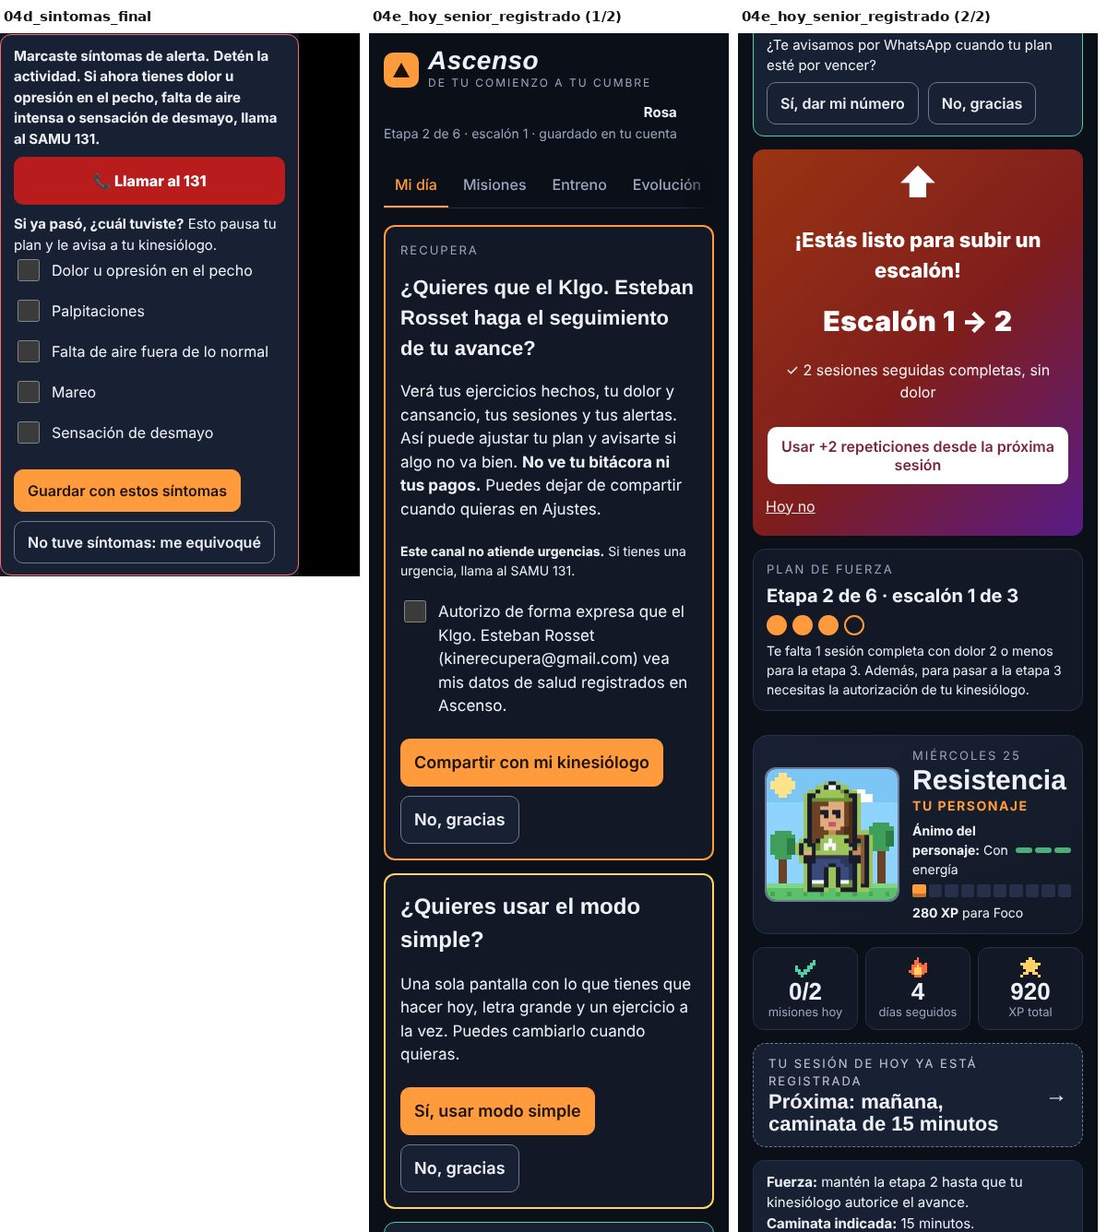
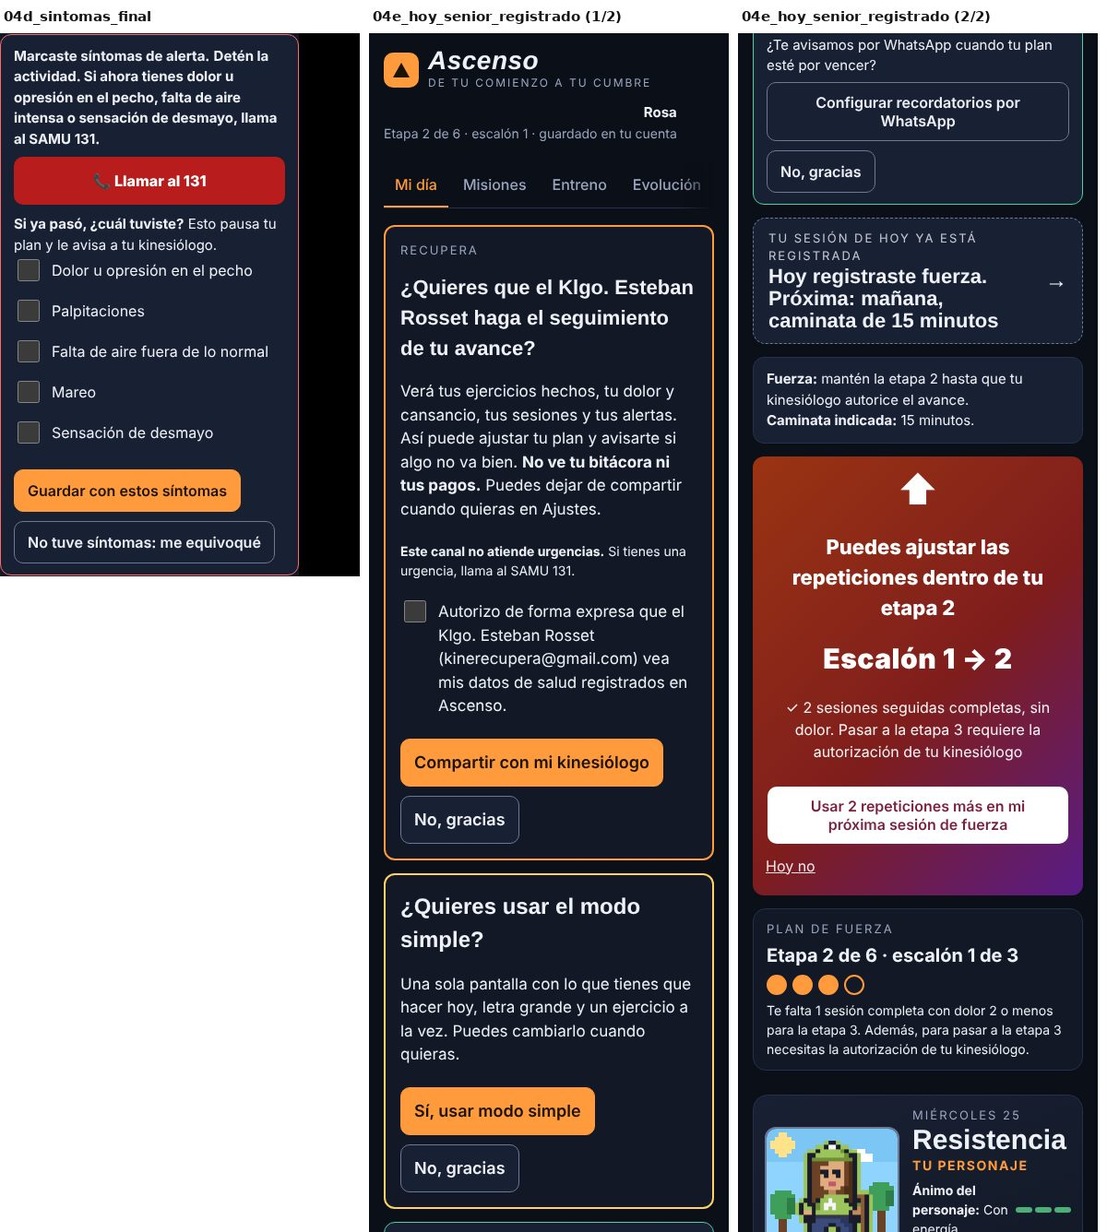
Copia de prueba v79: correcciones de la 2.ª auditoría (la app de los pacientes no cambia)
Claude-Session: https://claude.ai/code/session_01J9tU8kEPtqaroEiwXZirqq

Changed region(s): [[0.6783, 0.0614, 0.9867, 1.0]]

diff --git a/beta/index.html b/beta/index.html
@@ -2,7 +2,7 @@
 <html lang="es">
 <head><base href="/ascenso/"><meta name="robots" content="noindex,nofollow"><script>(function(){var P="beta::",S=Storage.prototype,g=S.getItem,t=S.setItem,r=S.removeItem;S.getItem=function(k){return g.call(this,P+k)};S.setItem=function(k,v){return t.call(this,P+k,v)};S.removeItem=function(k){return r.call(this,P+k)};window.__BETA=true;window.__BETA_OK=[]})();</script>
 <meta charset="utf-8">
-<meta http-equiv="Content-Security-Policy" content="script-src 'self' 'sha256-s/2Ct3tFYhvXDkHKQXgCxKZn0b7j8MYsCZJcokQtB40=' 'sha256-2qm+Nt5Uu7L4RKgV59o0kIRsnuY0dnKosS4yotFTYTM=' 'sha256-AFdyW6QBsN7g3o2Wol3DzaFtzZPYZuMmQ8KwB76Xs6I=' 'sha256-5m2u4pl+QQ/JE5w8ukPTJ/in6Wfsb5JmjLwGXVXoulQ=' 'sha256-x6Jjqo12cp5KPEwhwsD15s6v7TK37973w38eJjFjN10='; object-src 'none'; base-uri 'self'">
+<meta http-equiv="Content-Security-Policy" content="script-src 'self' 'sha256-s/2Ct3tFYhvXDkHKQXgCxKZn0b7j8MYsCZJcokQtB40=' 'sha256-Yg73y1MUci6KovatRJIbNWx8zc0LH+7KaVtxYIlEHQs=' 'sha256-AFdyW6QBsN7g3o2Wol3DzaFtzZPYZuMmQ8KwB76Xs6I=' 'sha256-5m2u4pl+QQ/JE5w8ukPTJ/in6Wfsb5JmjLwGXVXoulQ=' 'sha256-x6Jjqo12cp5KPEwhwsD15s6v7TK37973w38eJjFjN10='; object-src 'none'; base-uri 'self'">
 <meta name="viewport" content="width=device-width,initial-scale=1,viewport-fit=cover">
 <meta name="theme-color" content="#0b0f17">
 
@@ -428,6 +428,7 @@ function parqFlags(){return parqValid()?S.train.parq.map((v,i)=>v?i:-1).filter(i
 function trainReady(){const t=S.train;if(t.hold&&t.hold.kind==="dolor"){const hs=t.sessions.find(x=>x.id===t.hold.sid);if(hs&&!(hs.pain>=6)){if(!hs.paused)hs.paused="dolor";hs.autoLift=1;t.hold=null}}if(!S.onboard?.health)return"consent";if(!parqValid())return"parq";if(parqFlags().length&&!proClear("parq"))return"paused";if(t.hold)return"hold";if(!t.plan)return"plan";return"ok"}
 function strengthAt(stage){const t=S.train;return t.sessions.filter(s=>s.type==="fuerza"&&s.stage===stage&&(s.at||0)>=(t.stageAt||0))}
 function sessionToday(){return S.train.sessions.find(s=>s.date===today())}
+function todoDone(){const sd=sessionToday();return`<button class="todo soft" data-act="tab" data-k="entreno" id="todoDone"><span class="eyebrow">Tu sesión de hoy ya está registrada</span><b>Hoy registraste ${esc(sd.type)}. Próxima: ${nextTrainTxt()}</b><span class="go" aria-hidden="true">→</span></button>${capLines()}`}
 function nextTrainTxt(){const p=S.train.plan;if(!p)return"";const dw=(new Date().getDay()+1)%7;return DAYSETS[p.days].d.includes(dw)?"mañana, fuerza · etapa "+S.train.stage:"mañana, caminata de "+p.walk+" minutos"}
 function capLines(){if(!(S.train&&S.train.plan&&seniorCap()))return"";return`<div class="banner" id="capLines"><b>Fuerza:</b> mantén la etapa ${S.train.stage} hasta que tu kinesiólogo autorice el avance.<br><b>Caminata indicada:</b> ${S.train.plan.walk} minutos.</div>`}
 function walkUp(){const t=S.train;if(!t.plan||t.plan.walk>=30)return 0;const w=t.sessions.filter(s=>s.type==="caminata"&&(s.at||0)>=(t.walkAt||0)),days=[...new Set(w.map(s=>s.date))];return days.length>=NEED&&w.slice(0,NEED).every(s=>s.result==="completa"&&s.borg<=6&&s.pain<=2&&!s.alert)?t.plan.walk+5:0}
@@ -470,7 +471,7 @@ function renewCard(k,t,d){const money="$"+CFG.price.toLocaleString("es-CL");retu
 function memberBanner0(){if(M&&M.pro)return"";const st=memberState();if(st.active)return st.days<=5?renewCard("warn",st.days<=1?"Tu plan vence mañana":`Tu plan vence en ${st.days} días`,`Vence: ${fmtDT(st.exp)}<br>Si renuevas antes, los días se suman al final: no pierdes ninguno.`):"";
   if(st.status==="VENCIDO")return renewCard("bad","Tu plan venció",`Venció: ${fmtDT(st.exp)}<br>Tu progreso está guardado. Renueva para seguir registrando tus hábitos y tu entrenamiento.`);
   return`<div class="banner warn">${st.status==="SUSPENDIDO"?"Tu cuenta está suspendida.":"Activa tus "+CFG.trialDays+" días de prueba para registrar actividad."} <button class="link" data-act="tab" data-k="planes">Ver planes</button></div>`}
-function waAsk(){if(!CT||CT.wa_ok||(M&&M.pro)||(S.ui&&S.ui.waNo)||tab!=="dia")return"";const st=memberState();if(!st.active)return"";return`<div class="banner ok">¿Te avisamos por WhatsApp cuando tu plan esté por vencer? <div class="row" style="margin-top:6px"><button class="btn tap" data-act="tab" data-k="ajustes">Sí, dar mi número</button><button class="btn tap" data-act="waNo">No, gracias</button></div></div>`}
+function waAsk(){if(!CT||CT.wa_ok||(M&&M.pro)||(S.ui&&S.ui.waNo)||tab!=="dia")return"";const st=memberState();if(!st.active)return"";return`<div class="banner ok">¿Te avisamos por WhatsApp cuando tu plan esté por vencer? <div class="row" style="margin-top:6px"><button class="btn tap" data-act="tab" data-k="ajustes">Configurar recordatorios por WhatsApp</button><button class="btn tap" data-act="waNo">No, gracias</button></div></div>`}
 function vAuth(){const up=authMode==="up",rs=authMode==="reset";const msg=authMsg?`<div class="banner ${authMsg.startsWith("!")?"bad":"ok"}">${esc(authMsg.replace(/^!/,""))}</div>`:"";
  if(recovering)return`<div class="card" style="max-width:460px"><div class="eyebrow">Recuperar acceso</div><h1>Elige una contraseña nueva.</h1><form id="newPassForm" class="stack"><label>Contraseña nueva (mínimo 8 caracteres)<input id="npPass" type="password" autocomplete="new-password" minlength="8" required></label><label>Repítela<input id="npPass2" type="password" autocomplete="new-password" minlength="8" required></label>${msg}<div class="row"><button class="btn pri" type="submit">Guardar contraseña</button></div></form></div>`;
  if(rs)return`<div class="card" style="max-width:460px"><div class="eyebrow">Recuperar acceso</div><h1>¿Olvidaste tu contraseña?</h1><p class="mute">Escribe el correo de tu cuenta y te enviamos un enlace para elegir una contraseña nueva.</p><form id="authForm" class="stack"><label>Correo<input id="auEmail" type="email" autocomplete="email" required></label>${msg}<div class="row"><button class="btn pri" type="submit">Enviar enlace</button><button class="btn" type="button" data-act="authBack">Volver</button></div></form></div>`;
@@ -810,7 +811,7 @@ function vSimple(){const d=today(),its=rxAll(),ms=dayMissions(d),done=S.done[d]|
  return`<div class="simple"><div><p class="sgreet">Hola${S.profile.name?", "+esc(S.profile.name):""}</p><p class="sdate">${(x=>x.charAt(0).toUpperCase()+x.slice(1))(new Date().toLocaleDateString("es-CL",{weekday:"long",day:"numeric",month:"long"}))}</p></div>
  ${memberBanner0()}${kineCard()}
  <p class="shelp">🤝 Si te ayuda alguien, puede tocar los botones por ti.</p>
- ${its.length?`<section class="scard"><h2>Ejercicios de tu kinesiólogo</h2><p style="margin:0;font-size:18px"><b>${nd} de ${its.length}</b> hechos hoy</p>${its.map((it,i)=>{const k=rxKey(it),ok=rxIsDone(k),src=it.ex?rxSrc(it.ex):"";return`<button class="srow${ok?" ok":""}" data-act="sxGo" data-i="${i}">${src?`<img src="${src}" alt="" loading="lazy">`:""}<span><b>${esc(rxName(it))}</b>${it.dose?`<small>${esc(it.dose)}</small>`:""}</span><span class="sst" aria-label="${ok?"Hecho":"Pendiente"}">${ok?"✓":""}</span></button>`}).join("")}${nx>=0?(painStop()?`<div class="banner bad" style="margin-top:12px;font-size:17px"><b>Marcaste dolor ${fb.pain} de 10.</b> Antes de seguir con ejercicios hoy, habla con tu kinesiólogo.</div>${SH.mine.length?`<button class="btn pri sxl" data-act="sxPainNote">Avisarle a mi kinesiólogo</button>`:""}<button class="btn sxl" data-act="sxPainGo">Hablé con mi kinesiólogo y quiero seguir</button>`:`<button class="btn pri sxl" data-act="sxGo" data-i="${nx}">▶ ${nd?"Seguir con el siguiente":"Empezar mis ejercicios"}</button>`):`<p style="margin:12px 0 0;font-size:19px">✅ <b>¡Listo por hoy!</b> Hiciste todos tus ejercicios.</p>`}</section>`:anyRx?`<section class="scard"><h2>Ejercicios de tu kinesiólogo</h2><p style="margin:0;font-size:18px">Hoy no te tocan. Descansar también es parte del plan.${rxNext(SH.mine.flatMap(x=>x.rx||[]))?` Los próximos son el <b>${rxNext(SH.mine.flatMap(x=>x.rx||[]))}</b>.`:""}</p></section>`:""}
+ ${its.length?`<section class="scard"><h2>Ejercicios de tu kinesiólogo</h2><p style="margin:0;font-size:18px"><b>${nd} de ${its.length}</b> hechos hoy</p>${its.map((it,i)=>{const k=rxKey(it),ok=rxIsDone(k),src=it.ex?rxSrc(it.ex):"";return`<button class="srow${ok?" ok":""}" data-act="sxGo" data-i="${i}">${src?`<img src="${src}" alt="" loading="lazy">`:""}<span><b>${esc(rxName(it))}</b>${it.dose?`<small>${esc(it.dose)}</small>`:""}</span><span class="sst" aria-label="${ok?"Hecho":"Pendiente"}">${ok?"✓":""}</span></button>`}).join("")}${nx>=0?(painStop()?`<div class="banner bad" style="margin-top:12px;font-size:17px"><b>Marcaste dolor ${fb.pain} de 10.</b> Antes de seguir con ejercicios hoy, habla con tu kinesiólogo.</div>${SH.mine.length?`<button class="btn pri sxl" data-act="sxPainNote">Avisarle a mi kinesiólogo</button>`:""}<button class="btn sxl" data-act="sxPainGo">Hablé con mi kinesiólogo y quiero seguir</button>`:`<button class="btn pri sxl" data-act="sxGo" data-i="${nx}">▶ ${nd?(its.length-nd===1?`Ver mi último ejercicio: ${esc(rxName(its[nx]))}`:`Seguir con el siguiente: ${esc(rxName(its[nx]))}`):"Empezar mis ejercicios"}</button>`):`<p style="margin:12px 0 0;font-size:19px">✅ <b>¡Listo por hoy!</b> Hiciste todos tus ejercicios.</p>`}</section>`:anyRx?`<section class="scard"><h2>Ejercicios de tu kinesiólogo</h2><p style="margin:0;font-size:18px">Hoy no te tocan. Descansar también es parte del plan.${rxNext(SH.mine.flatMap(x=>x.rx||[]))?` Los próximos son el <b>${rxNext(SH.mine.flatMap(x=>x.rx||[]))}</b>.`:""}</p></section>`:""}
  ${S.train&&S.train.plan?`<section class="scard"><h2>Tu plan Ascenso</h2>${tr==="ok"?(sessionToday()?`<p style="margin:0;font-size:18px"><b>Tu sesión de hoy ya está registrada.</b> Próxima: ${nextTrainTxt()}.</p>${capLines()}<button class="btn sxl" data-act="sxPlan">Ver mi plan</button>`:`<p style="margin:0;font-size:18px">Hoy toca <b>${tt==="fuerza"?"fuerza · etapa "+S.train.stage:"caminata de "+S.train.plan.walk+" minutos"}</b>.</p>${capLines()}<button class="btn sxl" data-act="sxPlan">Hacer mi plan de hoy</button>`):`<p style="margin:0;font-size:18px"><b>${trPauseMsg(tr).t}.</b>${trPauseMsg(tr).sub?" "+trPauseMsg(tr).sub:""}</p><button class="btn sxl" data-act="sxPlan">Ver mi plan</button>`}</section>`:""}
  ${ms.length?`<section class="scard"><h2>Tus hábitos de hoy</h2><p class="mute" style="margin:0">Toca cada uno cuando lo cumplas.</p>${ms.map(m=>`<button class="srow${done[m.id]?" ok":""}" data-act="toggle" data-id="${m.id}"><span><b>${esc(m.name)}</b>${m.time?`<small>${esc(m.time)}</small>`:""}</span><span class="sst" aria-label="${done[m.id]?"Cumplido":"Pendiente"}">${done[m.id]?"✓":""}</span></button>`).join("")}</section>`:""}
  <section class="scard"><h2>¿Cómo te sentiste hoy?</h2>${sScale("tired","Cansancio",fb.tired)}${sScale("pain","Dolor",fb.pain)}${fb.pain>=6?`<p class="banner bad" style="margin:12px 0 0;font-size:17px">Con dolor de ${fb.pain} de 10, no sigas con ejercicios hoy sin hablar antes con tu kinesiólogo. ${SH.mine.length?"Él verá este aviso.":""} Si el dolor es muy fuerte o aparece de golpe, llama al SAMU 131.</p>${samuBox("10px 0 0")}`:""}</section>
@@ -827,10 +828,10 @@ function vSimpleEx(){const its=rxAll(),x=view.sx;if(x.step==="end")return`<div c
 function vDia(){if(S.ui&&S.ui.simple&&!view.sOut)return vSimple();const d=today(),ms=dayMissions(d),done=S.done[d]||{},n=ms.filter(m=>done[m.id]).length,xp=totalXP(),si=stageIdx(xp),next=XP_STEPS[si+1],pct=next?Math.round((xp-XP_STEPS[si])/(next-XP_STEPS[si])*100):100,sk=streak(),cel=view.cel&&Date.now()-view.cel<1500,mo=motionOn();
  const tt=todayTrain(),tr=trainReady();
  const hasRx=!!rxAll().length;
- return`${kineCard()}${simpleOffer()}${simpleBtn()}${hasRx?memberTop():memberBanner()}${lvUpCard(0)}${vRxHoy()}${stageBar()}${hasRx&&!memberBanner0()?(pushBanner()||fbBanner()):""}${hasRx?"":ageBanner()}${moodCard()}<section class="hero${hasRx?" mini":""}"><button class="hero-px${cel?" jump":""} mood${moodLvl(moodDays())}" data-act="tab" data-k="evolucion" aria-label="Ver tu evolución">${pxSvg(myAv(),si+1,{anim:mo,label:"Tu personaje: "+formName(si)})}${cel&&view.celXp?`<span class="xpf" aria-hidden="true">+${view.celXp} XP</span>`:""}</button>
+ return`${kineCard()}${simpleOffer()}${simpleBtn()}${hasRx?memberTop():memberBanner()}${tr==="ok"&&sessionToday()?todoDone():""}${lvUpCard(0)}${vRxHoy()}${stageBar()}${hasRx&&!memberBanner0()?(pushBanner()||fbBanner()):""}${hasRx?"":ageBanner()}${moodCard()}<section class="hero${hasRx?" mini":""}"><button class="hero-px${cel?" jump":""} mood${moodLvl(moodDays())}" data-act="tab" data-k="evolucion" aria-label="Ver tu evolución">${pxSvg(myAv(),si+1,{anim:mo,label:"Tu personaje: "+formName(si)})}${cel&&view.celXp?`<span class="xpf" aria-hidden="true">+${view.celXp} XP</span>`:""}</button>
  <div style="min-width:0"><div class="eyebrow">${new Date().toLocaleDateString("es-CL",{weekday:"long",day:"numeric"})}</div><h1>${esc(formName(si))}</h1><p class="lvl">Tu personaje</p>${moodBar()}${pbar(pct)}<p class="small">${next?`<b>${next-xp} XP</b> para ${esc(formName(si+1))}`:"Llegaste a la cumbre."}</p></div></section>
  ${hasRx?"":`<div class="chips"><div class="chip"><span class="ci">${ICO_OK}</span><b>${n}/${ms.length}</b><span>misiones hoy</span></div><button class="chip" data-act="streakInfo"><span class="ci">${ICO_FIRE}</span><b>${sk}</b><span>${sk===1?"día seguido":"días seguidos"}</span></button><div class="chip"><span class="ci">${ICO_XP}</span><b>${xp}</b><span>XP total</span></div></div>`}
- ${tr==="ok"?(sessionToday()?`<button class="todo soft" data-act="tab" data-k="entreno" id="todoDone"><span class="eyebrow">Tu sesión de hoy ya está registrada</span><b>Próxima: ${nextTrainTxt()}</b><span class="go" aria-hidden="true">→</span></button>`:`<button class="todo" data-act="tab" data-k="entreno"><span class="eyebrow">Hoy toca</span><b>${tt==="fuerza"?"Fuerza · etapa "+S.train.stage:"Caminata de "+S.train.plan.walk+" min"}</b><span class="go" aria-hidden="true">→</span></button>`)+capLines():S.onboard&&S.onboard.health?(()=>{const m=trPauseMsg(tr);return`<button class="todo${m.bad?"":" soft"}" data-act="tab" data-k="entreno"${m.bad?` style="border:2px solid var(--warn,#c80)"`:""}><span class="eyebrow">${m.eb}</span><b>${m.t}</b>${m.sub?`<span class="small" style="display:block;font-weight:400">${m.sub}</span>`:""}<span class="go" aria-hidden="true">→</span></button>`})():""}
+ ${tr==="ok"?(sessionToday()?"":`<button class="todo" data-act="tab" data-k="entreno"><span class="eyebrow">Hoy toca</span><b>${tt==="fuerza"?"Fuerza · etapa "+S.train.stage:"Caminata de "+S.train.plan.walk+" min"}</b><span class="go" aria-hidden="true">→</span></button>`)+capLines():S.onboard&&S.onboard.health?(()=>{const m=trPauseMsg(tr);return`<button class="todo${m.bad?"":" soft"}" data-act="tab" data-k="entreno"${m.bad?` style="border:2px solid var(--warn,#c80)"`:""}><span class="eyebrow">${m.eb}</span><b>${m.t}</b>${m.sub?`<span class="small" style="display:block;font-weight:400">${m.sub}</span>`:""}<span class="go" aria-hidden="true">→</span></button>`})():""}
  ${S.profile.av?"":`<button class="todo soft" data-act="tab" data-k="evolucion"><span class="eyebrow">Nuevo</span><b>Elige tu personaje entre ${Object.keys(PX.CH).length*2}</b><span class="go" aria-hidden="true">→</span></button>`}
  ${vTimer()}${hasRx?ageBanner():""}
  <div class="row sp"><h2>Misiones de hoy</h2><button class="btn pri" data-act="newMission">+ Nueva</button></div>
@@ -1248,7 +1249,7 @@ document.addEventListener("submit",async e=>{const id=e.target&&e.target.id;if(i
  const n=$("#maName").value.trim(),rel=$("#maRel").value;if(n.length<5||!/\s/.test(n))return toast("Escribe tu nombre y apellido.");if(!rel)return toast("Elige tu relación con el menor.");if(!$("#maOk").checked)return toast("Confirma que eres su madre, padre o tutor legal.");MAB=true;let r;try{r=await sb.rpc("minor_auth_create",{p_name:n,p_rel:rel})}catch(_){r={error:1}}MAB=false;if(r.error||!r.data||r.data.ok===false)return toast((r.data&&r.data.msg)||"No se pudo crear el código. Revisa tu conexión.");await loadShares();render();toast("Código creado. Vale 48 horas.")},true);
 function vAdultNow(){return`<div class="card" style="border:2px solid var(--accent)"><div class="eyebrow">Cumpliste 18 años</div><h2 style="margin:2px 0 6px">Desde ahora decides tú</h2><p>La autorización que dio tu madre, padre o tutor termina aquí. Tú eliges qué pasa con tus datos de salud (ejercicios indicados, marcas, dolor y esfuerzo).</p><div class="stack" style="gap:10px"><button class="btn pri" data-act="nowAdult" data-v="1" style="min-height:52px">Seguir y conservar mis datos de salud</button><button class="btn" data-act="nowAdult" data-v="0" style="min-height:52px">Seguir y borrar mis datos de salud</button></div></div>`}
 const FAM3=fam3(0);function fam3(me){const w=me?"en Ajustes, más arriba":"en Ajustes de la cuenta del menor";return`<ul class="small" style="margin:6px 0 10px;padding-left:20px"><li><b>Dejar de compartir</b> (${w}): su kinesiólogo deja de ver el avance. Los datos siguen en la cuenta.</li><li><b>Retirar autorización</b>: se borran los datos de salud y la cuenta vuelve a pedir la autorización.</li><li><b>Eliminar la cuenta</b> (${me?"en Ajustes, al final, «Eliminar mi cuenta»":"en Ajustes de la cuenta del menor, «Eliminar mi cuenta»"}): se borra todo para siempre.</li></ul>`}
-function vExpSum(){const t=S.train||{},P=S.profile||{},nd=Object.keys(S.done||{}).length;return`<div class="banner" id="expSum"><b>Antes de descargar, esto es lo que contiene el archivo:</b><ul class="small" style="margin:6px 0;padding-left:20px"><li>Tu perfil: nombre${P.birthY?", fecha de nacimiento":""}${P.weight||P.height?", peso y estatura":""}.</li><li>${(S.missions||[]).length} misiones y tu cumplimiento de ${nd} ${nd===1?"día":"días"}.</li><li>${(S.journal||[]).length} ${(S.journal||[]).length===1?"nota":"notas"} de bitácora.</li><li>${S.onboard&&S.onboard.health?`Datos de salud: ${(t.sessions||[]).length} ${(t.sessions||[]).length===1?"registro":"registros"} de sesión con esfuerzo, dolor y síntomas${t.parq?", y tu cuestionario previo":""}.`:"Sin datos de salud (no diste esa autorización)."}</li></ul><p class="small" style="margin:0 0 8px">Es un archivo de texto (formato JSON) con todo tu historial desde que usas Ascenso. Tu teléfono puede guardarlo en Descargas o donde elijas. Quien tenga el archivo podrá leer su contenido.</p><div class="row"><button class="btn pri" data-act="export">Descargar el archivo</button><button class="btn" data-act="exportNo">Cancelar</button></div></div>`}
+function vExpSum(){const t=S.train||{},P=S.profile||{},nd=Object.keys(S.done||{}).length;return`<div class="banner" id="expSum"><b>Antes de descargar, esto es lo que contiene el archivo:</b><ul class="small" style="margin:6px 0;padding-left:20px"><li>Tu perfil: nombre${P.birthY?", fecha de nacimiento":""}${P.weight||P.height?", peso y estatura":""}.</li><li>${(S.missions||[]).length} misiones y tu cumplimiento de ${nd} ${nd===1?"día":"días"}${nd?`, del ${fmtDate(Object.keys(S.done||{}).sort()[0])} al ${fmtDate(Object.keys(S.done||{}).sort().slice(-1)[0])}`:""}.</li><li>${(S.journal||[]).length} ${(S.journal||[]).length===1?"nota":"notas"} de bitácora.</li><li>${S.onboard&&S.onboard.health?`Datos de salud: ${(t.sessions||[]).length} ${(t.sessions||[]).length===1?"registro":"registros"} de sesión con esfuerzo, dolor y síntomas${(t.sessions||[]).length?`, del ${fmtDate((t.sessions.map(x=>x.date).sort()[0]))} al ${fmtDate(t.sessions.map(x=>x.date).sort().slice(-1)[0])}`:""}${t.parq?", y tu cuestionario previo":""}.`:"Sin datos de salud (no diste esa autorización)."}</li></ul><p class="small" style="margin:0 0 8px">Es un archivo de texto (formato JSON) con todos los registros que tu cuenta tiene guardados hoy. Tu teléfono puede guardarlo en Descargas o donde elijas. Quien tenga el archivo podrá leer su contenido.</p><div class="row"><button class="btn pri" data-act="export">Descargar el archivo</button><button class="btn" data-act="exportNo">Cancelar</button></div></div>`}
 function vShareAj(){if((M&&M.pro)||!S.onboard)return"";const L=SH.mine||[];return`<div class="card" id="shareAj"><h3>Con quién compartes tu avance</h3>${L.length?`<p class="small" style="margin:0 0 8px"><b>Ve:</b> tu cumplimiento, sesiones, esfuerzo, dolor, alertas, cuestionario previo y los ejercicios que te indica. <b>No ve:</b> tu bitácora ni tus pagos.</p><div class="stack" style="gap:8px">${L.map(x=>{const kn=Object.values(CFG.kines).find(k=>k.email===String(x.email||"").toLowerCase());return`<div class="row sp"><span><b>${kn?esc(kn.name):esc(x.email)}</b>${kn?` <span class="small">· ${esc(x.email)}</span>`:""}${x.since?` <span class="mute small">· desde ${fmtDate(String(x.since).slice(0,10))}</span>`:""}</span><button class="btn" data-act="shareOff" data-k="${esc(x.email)}">Dejar de compartir</button></div>`}).join("")}</div><p class="mute small" style="margin:8px 0 0">Al dejar de compartir, esa persona deja de ver tu avance en Ascenso desde ese momento. Tus registros siguen en tu cuenta. Los informes que ya haya descargado quedan en su poder.</p>`:`<p class="small mute" style="margin:0">Ningún kinesiólogo tiene acceso a tu avance desde Ascenso. Puedes compartirlo desde Entreno.</p>`}<p class="small" style="margin:8px 0 0"><b>Este canal no atiende urgencias.</b> Si tienes una urgencia, llama al SAMU 131.</p></div>`}
 function vMinorAdult(){if((M&&M.pro)||myAge()==null||myAge()<18)return"";const L=(MA&&MA.asAdult)||[];return`<div class="card"><h3>Familia: autorizar a un menor de edad</h3><p class="small mute" style="margin:0 0 8px">Si eres madre, padre o tutor legal de una persona de 14 a 17 años, aquí creas el código que ella escribe en su cuenta. Su kinesiólogo lo confirma después en persona. Puedes retirar la autorización cuando quieras: se borran sus datos de salud.</p>${FAM3}
  ${L.map(x=>`<div style="border:1px solid var(--line2);border-radius:10px;padding:10px 12px;margin-bottom:8px">${x.used?`<b>${esc(x.minor||"Menor autorizado")}</b><div class="small mute">Autorizado como ${esc(String(x.rel).toLowerCase())} el ${fmtDate(String(x.used).slice(0,10))}</div>`:`<div class="small mute">Código para entregar (vence el ${fmtDT(Date.parse(x.expires))})</div><div style="font-size:30px;font-weight:800;letter-spacing:.12em">${esc(String(x.code||"").replace(/(\d{4})(\d{4})/,"$1 $2"))}</div>`}<button class="link" data-act="maRevoke" data-id="${+x.id}">${x.used?"Retirar autorización":"Anular código"}</button></div>`).join("")}
@@ -1332,7 +1333,7 @@ function rxQuick(it,key,on,adv){const id=it.ex,e=id&&(EX[id]||LIB[id]),pg=id&&LI
  return`<div class="rxq">${e?rxPic(id,lvC):""}${it.dose?`<div class="rxdose">${esc(it.dose)}</div>`:""}${it.note?`<p class="rxnote"><b>${LIB[id]&&LIB[id].load?"Carga autorizada":"Tu kine"}:</b> ${esc(it.note)}</p>`:""}${pg&&it.c0?`<p class="rxnote"><b>Carga:</b> ${esc(progC(pg,it.c0))}</p>`:""}${e?`<ol class="rxsteps">${e.how.map(h=>`<li>${h}</li>`).join("")}</ol><p class="rxcare">⚠ ${e.care}</p>`:""}${pg?ldBlock(id,key,it):""}${adv?`<button class="btn tap${on?"":" pri"} rxdone" data-act="rxTick" data-k="${esc(rxKey(it))}" data-adv="1" aria-pressed="${on}">${on?"✓ Hecho · desmarcar":"✓ Listo, lo hice"}</button>`:""}${e?exReview(id):""}</div>`}
 function lvUp(){if(trainReady()!=="ok"||view.log)return null;const t=S.train,pr=progression(),sdn=!!sessionToday();
  if(pr.state==="advance")return{act:"stageUp",title:`¡Estás listo para la etapa ${t.stage+1}!`,big:`Etapa ${t.stage} → ${t.stage+1}`,why:`${NEED} sesiones completas, sin dolor`,btn:sdn?`Usar la etapa ${t.stage+1} desde la próxima sesión de fuerza`:`Pasar a la etapa ${t.stage+1}`};
- if(pr.state!=="hold"&&stepReady())return{act:"stepUp",title:"¡Estás listo para subir un escalón!",big:`Escalón ${(t.lvl||0)} → ${(t.lvl||0)+1}`,why:"2 sesiones seguidas completas, sin dolor",btn:sdn?"Usar +2 repeticiones desde la próxima sesión":"Subir un escalón (+2 repeticiones)"};
+ if(pr.state!=="hold"&&stepReady()){const sc=seniorCap();return{act:"stepUp",title:sc?`Puedes ajustar las repeticiones dentro de tu etapa ${t.stage}`:"¡Estás listo para subir un escalón!",big:`Escalón ${(t.lvl||0)} → ${(t.lvl||0)+1}`,why:"2 sesiones seguidas completas, sin dolor"+(sc?`. Pasar a la etapa ${t.stage+1} requiere la autorización de tu kinesiólogo`:""),btn:sdn?"Usar 2 repeticiones más en mi próxima sesión de fuerza":"Subir un escalón (+2 repeticiones)"}}
  const wu=walkUp();if(wu&&todayTrain()!=="fuerza"){const cp=pr.state==="cap"||seniorCap();return{act:"walkUp",title:cp?"Caminata: puedes caminar más":"¡Estás listo para caminar más!",big:`Caminata ${t.plan.walk} → ${wu} min`,why:`${NEED} caminatas cómodas seguidas`+(cp?`. La fuerza se mantiene en la etapa ${t.stage} hasta que tu kinesiólogo lo autorice`:""),btn:sdn?`Usar ${wu} minutos desde la próxima caminata`:`Subir la caminata a ${wu} minutos`}}return null}
 function lvUpCard(inEnt){const u=lvUp();if(!u)return"";uxHit("lvup_seen");if(!inEnt&&S.lvSkip===today()+u.act)return"";
  return`<div class="card lvup" role="status"><div class="lvarr" aria-hidden="true">⬆</div><div class="lvt">${u.title}</div><div class="lvbig">${u.big}</div><div class="lvwhy">✓ ${u.why}</div><button class="btn lvbtn tap" data-act="${u.act}">${u.btn}</button>${inEnt?"":`<button class="link tap lvno" data-act="lvSkip" data-k="${u.act}">Hoy no</button>`}</div>`}
